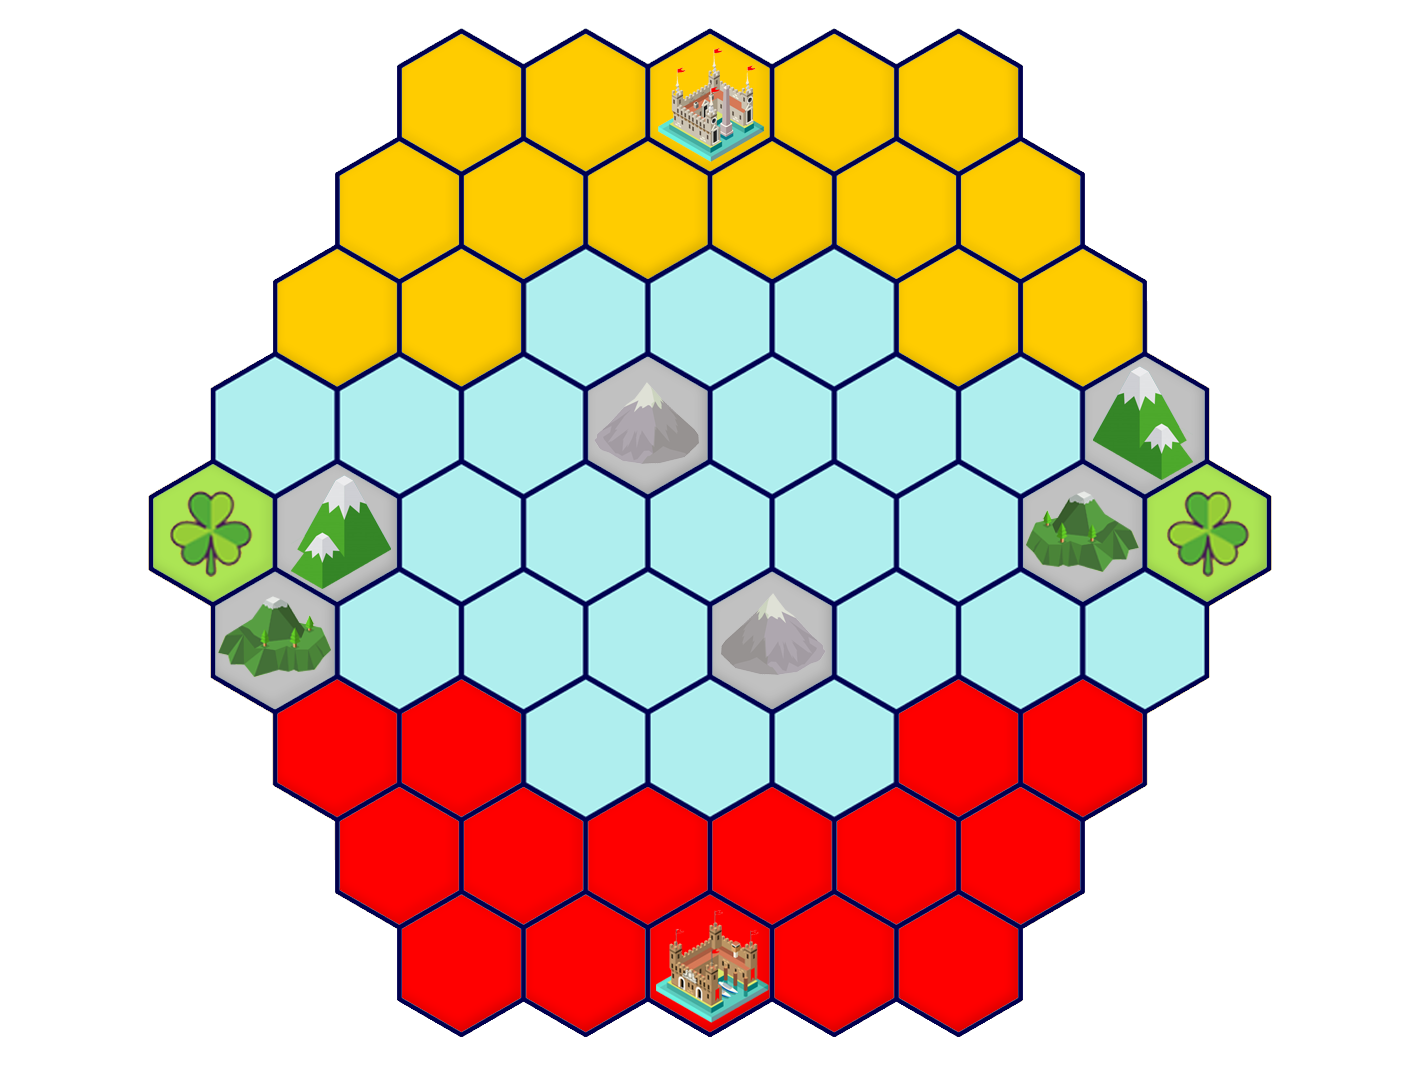
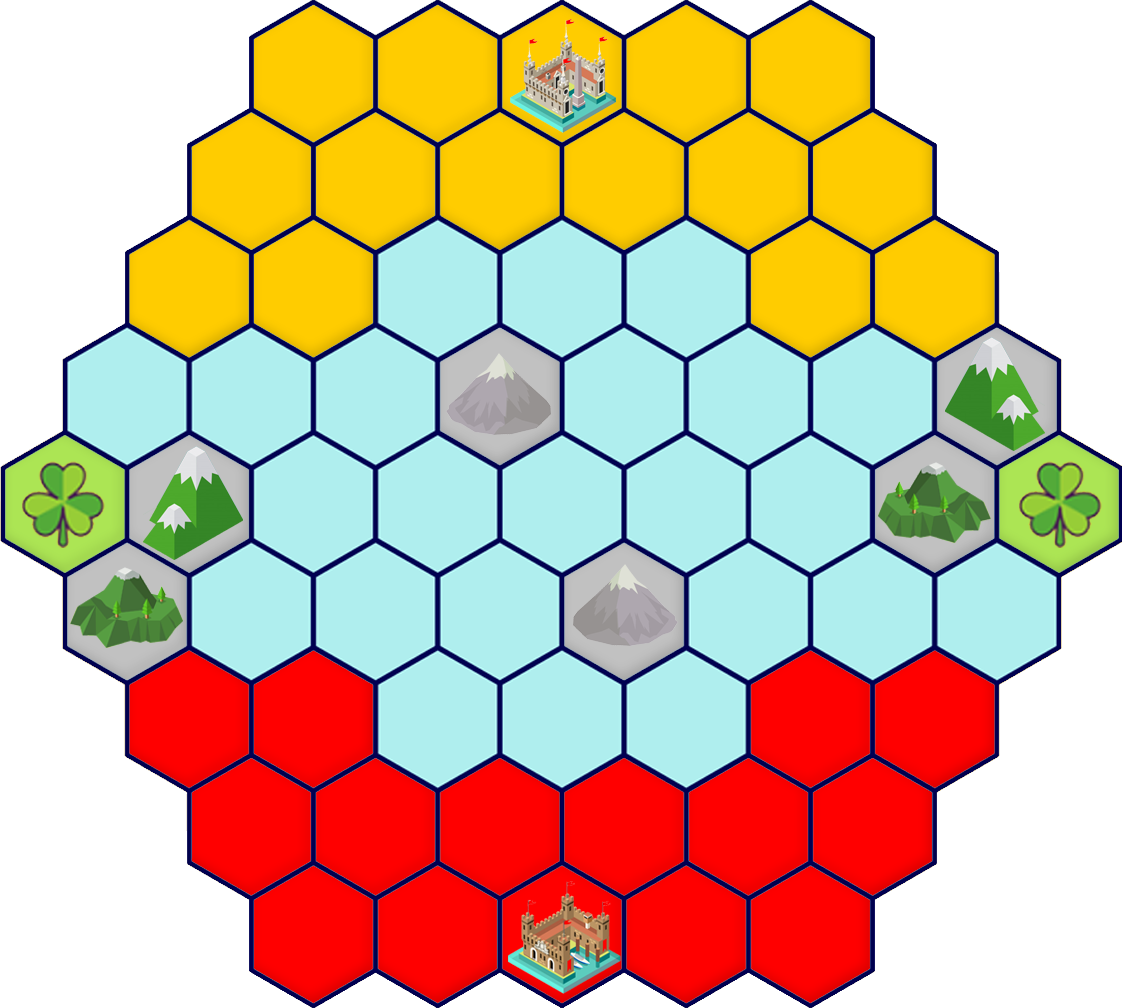
Adding Caselles

diff --git a/game/scenes/PlayScene.js b/game/scenes/PlayScene.js
@@ -7,31 +7,51 @@ export default class PlayScene extends Scene {
     this.posicioX = 0;
     this.posicioY = 0;
     this.posicioText = 0;
+    this.taulerimgX = 0;
+    this.taulerimgY = 0;
     //this.bomb = 0;
     this.nParticules = 100;
   }
 
   create () {
     console.log("Starting PlayScene ...");
+    
     let fonsimg = this.add.image(window.innerWidth/2, window.innerHeight/2, 'fons');
     fonsimg.displayWidth=window.innerWidth*2;
     fonsimg.displayHeight=window.innerHeight*2;
 
     let taulerimg = this.add.image(window.innerWidth/2, window.innerHeight/2, 'tauler');
     taulerimg.displayHeight=window.innerHeight;
-    taulerimg.displayWidth=taulerimg.displayHeight*4/3;
+    taulerimg.displayWidth=taulerimg.displayHeight*1.113;
+    this.taulerimgX = taulerimg.displayWidth;
+    this.taulerimgY = taulerimg.displayHeight;
 
-    //let iconimg = this.add.image(200, 200, 'icon');
+    const casellamidaX = taulerimg.displayWidth/9;
+    const casellamidaY = 112.2*taulerimg.displayHeight/1008;
 
-    /*
-    this.bomb = this.physics.add.image(400, 200, 'bomb');
-    this.bomb.setCollideWorldBounds(true);
-    this.bomb.body.onWorldBounds = true; // enable worldbounds collision event
-    this.bomb.displayWidth=30;
-    this.bomb.displayHeight=30; 
-    this.bomb.setBounce(0.8);
-    this.bomb.setVelocity(200, 20);
-*/
+    let casellaX = 4; let casellaY = 4;
+    let posicioACasellaX = 0; let posicioACasellaY = 0;
+
+    let tmp_posX = window.innerWidth/2 - 0.5 * taulerimg.displayHeight;
+    if (casellaY%2 != 0) {
+      tmp_posX+= casellamidaX*0.5;
+    }
+    let tmp_posY = 112.2*taulerimg.displayHeight/1008;
+
+    posicioACasellaX = (casellaX)*casellamidaX + tmp_posX;
+    posicioACasellaY = (casellaY)*casellamidaY + tmp_posY;
+
+    console.log(posicioACasellaX + ', ' + posicioACasellaY);
+
+
+
+    let iconSettings = this.add.image(posicioACasellaX, posicioACasellaY, 'iconSettings').setInteractive();
+    iconSettings.setDisplaySize(30,30);
+    let that = this;
+    iconSettings.on('pointerup', function(event) {
+      that.scene.start('MenuScene'); // Start the main game.
+    }); 
+
     this.posicioText = this.add.text(16, 16, 'Posicio: 0, 0', { fontSize: '32px', fill: '#000'});
     this.posicioX = 0;
     this.posicioY = 0;
@@ -41,7 +61,6 @@ export default class PlayScene extends Scene {
   update () {
     this.posicioX = this.input.mousePointer.x;
     this.posicioY = this.input.mousePointer.y;
-
-    this.posicioText.setText('Mouse: ' + this.posicioX + ', ' + this.posicioY + ' | Pantalla: ' + window.innerWidth + ' x ' + window.innerHeight);
+    this.posicioText.setText('Mouse: ' + this.posicioX + ', ' + this.posicioY + ' | Pantalla: ' + window.innerWidth + ' x ' + window.innerHeight + '\n| Tauler: '+ this.taulerimgX + ' ' + this.taulerimgX);
   }
 }

diff --git a/game/scenes/BootScene.js b/game/scenes/BootScene.js
@@ -5,7 +5,7 @@ import bomb from '@/game/assets/bomb.png';
 import imgMenuNormal from '@/game/assets/imgMenuNormal.png';
 import imgMenuHover from '@/game/assets/imgMenuHover.png';
 import imgMenuClicked from '@/game/assets/imgMenuClicked.png';
-//import icon from '@/game/assets/icon.svg';
+import iconSettings from '@/game/assets/settings.png';
 
 export default class BootScene extends Scene {
     constructor() {
@@ -19,6 +19,7 @@ export default class BootScene extends Scene {
         this.load.image('imgMenuNormal', imgMenuNormal)
         this.load.image('imgMenuHover', imgMenuHover)
         this.load.image('imgMenuClicked', imgMenuClicked)
+        this.load.image('iconSettings', iconSettings)
         // this.load.sprite('icon', icon);
         // this.load.audio('thud', ['assets/thud.mp3', 'assets/thud.ogg'])
     }
